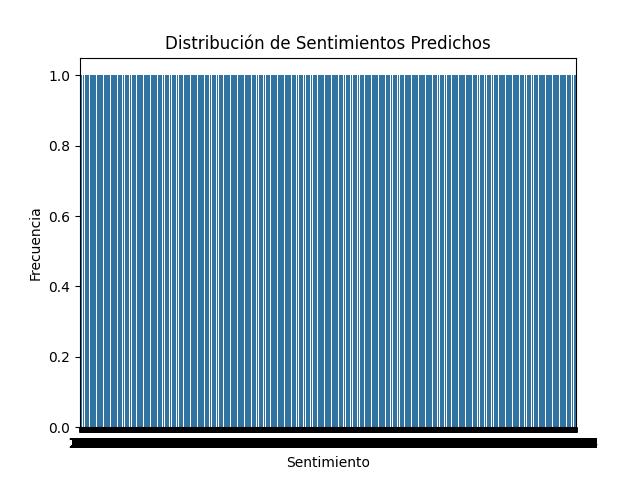
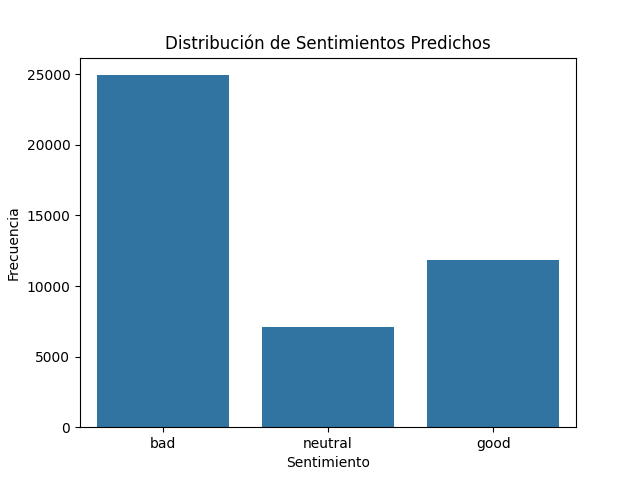
ya

diff --git a/ia.py b/ia.py
@@ -83,12 +83,15 @@ df['sentimiento_predicho'] = modelo.predict(X)
 
 
 #-------------------Gráficas-------------------
+# Decodificar las etiquetas predichas
+y_pred_decoded = label_encoder.inverse_transform(y_pred)
+
 import matplotlib.pyplot as plt
 
 # Contamos las clases predichas
 import seaborn as sns
 
-sns.countplot(y_pred)
+sns.countplot(x=y_pred_decoded, order=['bad', 'neutral', 'good']) 
 plt.title('Distribución de Sentimientos Predichos')
 plt.xlabel('Sentimiento')
 plt.ylabel('Frecuencia')
